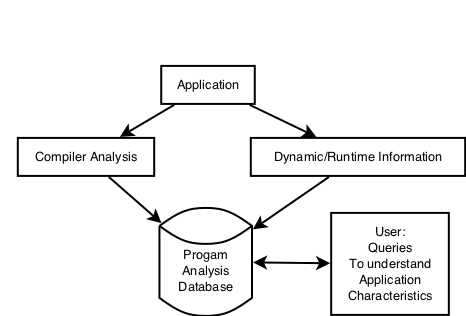
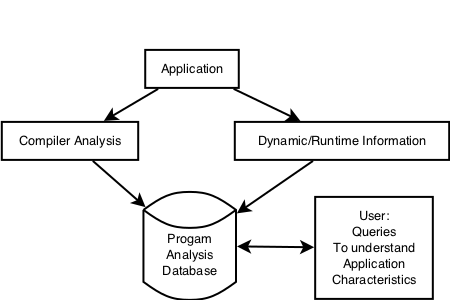
updated design section

Changed region(s): [[0.0, 0.15, 1.0, 1.0], [0.3111, 0.36, 0.3422, 0.39], [0.28, 0.33, 0.3111, 0.36]]

diff --git a/analysis.tex b/analysis.tex
@@ -1,6 +1,91 @@
 % 2 pages -- Aaron
-\subsection{Overview}
+%\subsection{Overview}
  % Describe the system - create an image
+%\subsection{Static Analysis}
+%\subsection{Dynamic Analysis}
+%\subsection{Database Schema}
+For the automated analysis, rather than exclusively developing our own tools, we relied as much as possible on existing tools and environments.
+%TODO -- you need to explain what information are you extracting from the compiler --- you need to mention that you are extracting the Abstract Syntax Tree, and what other analysis and that you are leverging from gfortran intermediate representation data structures, where you are making a bridge from the intermediate program representation to SQL.
+Our general methodology was to extract data about the code directly from the compiler, insert it into tables in an \acs{SQL} database, separately run an optional dynamic analysis to collect periodic samples of where the application is spending time and also add it to the database, then finally allow queries to be run on the database using one or both sources of data to gain insight into the code's execution.
+An illustration of the this flow can be seen in Figure~\ref{fig:design}.
+These steps will be addressed separately in the following subsections.
+While we include components of a dynamic analysis in this way, we primarily emphasise the use of static information, with the dynamic analysis mostly used to narrow the focus more specifically on regions of particular interest and supplement the functional data obtained from the compiler with additional non-functional data.
+
+\begin{figure}
+\begin{center}
+\includegraphics[width=0.4\textwidth]{images/design.png}
+\end{center}
+\caption{Tool Design}
+\label{fig:design}
+\end{figure}
+
+The result of this analysis is two-fold in that both system administrators and support staff as well as users (with optional supplementary run-time data) are able to get answers to questions about applications relevant to their own needs and interests.
+We will demonstrate a few examples of this investigative ability in Section~\ref{sec:casestudy}.
+
+%The desired result of this analysis is to achieve similar results to what the manual tweaking of our previous work found so that it can more realistically and scalably be applied to larger and more complex applications.
+%To this end, we will compare the results from our previous work to what we achieved with our new tools to determine how well they are able to match up.
+%We will then perform a reverse validation by applying the same analysis to a different and larger application that was not part of our previous work, modify the memory placement for the reported hotspots, and see how well the actual results fall in line with the expected results.
+%This will be described in more detail in Section~\ref{sec:results}.
 \subsection{Static Analysis}
+%TODO: particular spec/features of fortran?
+For the static analysis, we relied on the \ac{GCC} for its support of Fortran.
+%This seems to be not very interesting for the paper -- this is just mechanics (Loading a module)
+Using its plugin \acs{API}, we created a module to be loaded and run after the compiler finishes parsing the code.
+%TODO: poly
+%Additionally, it also registers a pass to be run while it's generating its GIMPLE \ac{IR} in order to get additional analysis information from the lower stages of the compiler.
+The plugin runs through all the relevant data structures in the \ac{AST} representing the code to queue the data, then proceeds to dump them all at once in bulk transactions.
+For the database, we used PostgreSQL for some of its advanced query support.
+\subsubsection{Dumping the Data}
+We did not attempt to create our own schema to represent the code, as it would not be necessary due to the tables not being intended as a user-facing interface.
+%TODO: no possessive acronyms... :'(
+Instead, we simply dumped out \ac{GCC}'s internal data structures such that each data structure was a table, and each member of the data structure was a column.
+%TODO: technically not all tables...mention enums?
+Common to all tables are two columns for the pointer to the data structure in memory during compilation, and a build ID unique to each compilation unit.
+%TODO: necessary to very briefly explain primary/foreign keys, etc, or are they sufficiently self-describing?
+Together, these two fields form the table's composite primary key to uniquely identify each record in the database.
+Furthermore, this also allows us to dump all data in the most straightforward of manners - primitive types get dumped as their corresponding \acs{SQL} data type, and pointers to other objects as the raw value of those pointers.
+
+This part of the data can be obtained automatically and without the direct involvement of the user, using the same methods used by XALT \cite{7081224}.
+That is, a wrapper can be made for \ac{GCC} to intercept compilation and make it use the necessary plugin, and dump the data either to files, a system log, or directly to the database.
+In addition to the primary data about the code itself, XALT is able to insert a unique identifier into each linked application such that when they are run, it can be tied back to each of the particular compilations and associated data, which we also need here for connecting the dynamic data at a later stage.
+%TODO: clarify the difference between build ids and linked/application ids?
+\subsubsection{Querying the Database}
+Due to the way we identify records and store object references, we are able to use any columns representing pointers as foreign keys with which to join connected tables in the database.
+One of the most important things we need the database to do for us is associate each code line with file lines.
+Some of our focus on the static analysis and all of the focus on the dynamic analysis is dependent on line numbers, so our queries were constructed so as to be able to clearly relate what file and line numbers are involved in an operation.
+%TODO: explain what we do here better or not?
+%In particular, we go through each statement and look up which file and lines they span using the line map table, traverse the expression trees for those statements, filter for expressions containing references to the symbol table, then finally check the symbol table to determine which particular symbols are being referenced.
+%In this way, we are then able construct queries to tally the total number of references for every symbol referenced across any subset of lines.
+
+%TODO: more poly?
+In order to enhance the predictive capacity of our analysis, we look to polyhedral analysis by utilising \acsp{GCC} Graphite framework\cite{trifunovic:inria-00551516}.
+At this time, our use of the polytopes provided by Graphite is simply to do some basic reasoning about memory access order for arrays - notably, to find cases where a particular access is likely to result in either a greater or lesser number of cache misses than a typical in order access pattern.
+
+We classify accesses into three categories based on a focus on the relation to the domain of the innermost loop.
+For loops with iterators \texttt{i}, \texttt{j}, \texttt{k}, in that order, we refer to these categories as follows: the \texttt{[k][j]} class, the \texttt{[j][k]} class, and the \texttt{[j][i]} class.
+In all cases, what we are really trying to address is the use of the innermost loop's iterator, or the lack thereof, so this is intended to serve as a simplification in that \texttt{j} is the "same" as \texttt{k + i} or \texttt{k - 1}.
+Since Fortran indexes arrays in a column-major order, this means that the first \texttt{[k][j]} class is intended to represent accesses that are presumed to be both in order in memory and reasonably close in proximity between iterations, if not contiguous.
+Similarly, the second \texttt{[j][k]} class represents the case where for sufficiently large data objects a new cache block may need to be fetched from memory for each iteration of the innermost loop, resulting in degraded performance compared to the first class.
+Finally, the final \texttt{[j][i]} class is intended to represent the cases where the memory location being accessed remains constant throughout the entire innermost loop, only changing as often as any relevant enclosing loop iterates and thus carrying the expectation of being even slightly less expensive than the first class.
+%TODO: reference this cost model paper in some way?
+With these classifications, we can then weigh each access observed for a sample more or less based on the access type to create a cost model for our analysis.%\cite{5608348}
 \subsection{Dynamic Analysis}
-\subsection{Database Schema}
+%TODO: cite map?
+For the dynamic analysis, we used the ARM MAP sampling based profiler.
+First, in order to link the static and dynamic data later, it needs to record the application's ID that was linked in during compilation.
+Then, given a sample frequency and number of samples, it periodically probes the application for a set of predetermined metrics, then gathers the samples together to dump them out to an \acs{XML} file.
+What we are interested in here is simply where each thread is at in the code at the time of sampling, specifically the file and line number for each frame of the stack.
+We process the \acs{XML} file to extract this information via \ac{XSLT} to produce a \acs{CSV} file with the fields we want, and then upload it to the database so that we can achieve a count of how many times any given line is observed being executed by a thread.
+We use this simple metric to determine in what regions of code the application is spending most of its time, so that we may focus only upon those regions.
+
+While the static information is dumped once, the dynamic information can be obtained any desired number of times.
+This allows for variable parametres to be used to see their influence on the code, such as the number of threads/processes or the problem size.
+Which profile(s) to use for each analysis report must be specified directly by the user upon requesting the report.
+Then, the tool can construct a query that links the compile-time and run-time data based upon the application's linked ID and MAP run ID(s) to provide the desired results.
+%\subsection{Combined Analysis}
+%The real value of the analysis comes when combining the previously described static and dynamic aspects into a more comprehensive evaluation of the code.
+%Using the results from MAP, we focus only on the subset of lines we recorded samples from, and use the information from the static analysis to obtain the symbols and their reference totals across those lines.
+%We treat all references as equal, with no regard as to whether they are read or write accesses or what level of the memory hierarchy their current/local value may be stored in at the time of access.
+%After we have all the reference count totals, we further sum all the totals and determine what percent of that total each symbol constitutes.
+%It is this percentage we use to determine the relative impact on memory performance in lieu of the benefit factor from our previous work as described in Section~\ref{sec:prevwork}.
+%TODO: poly
